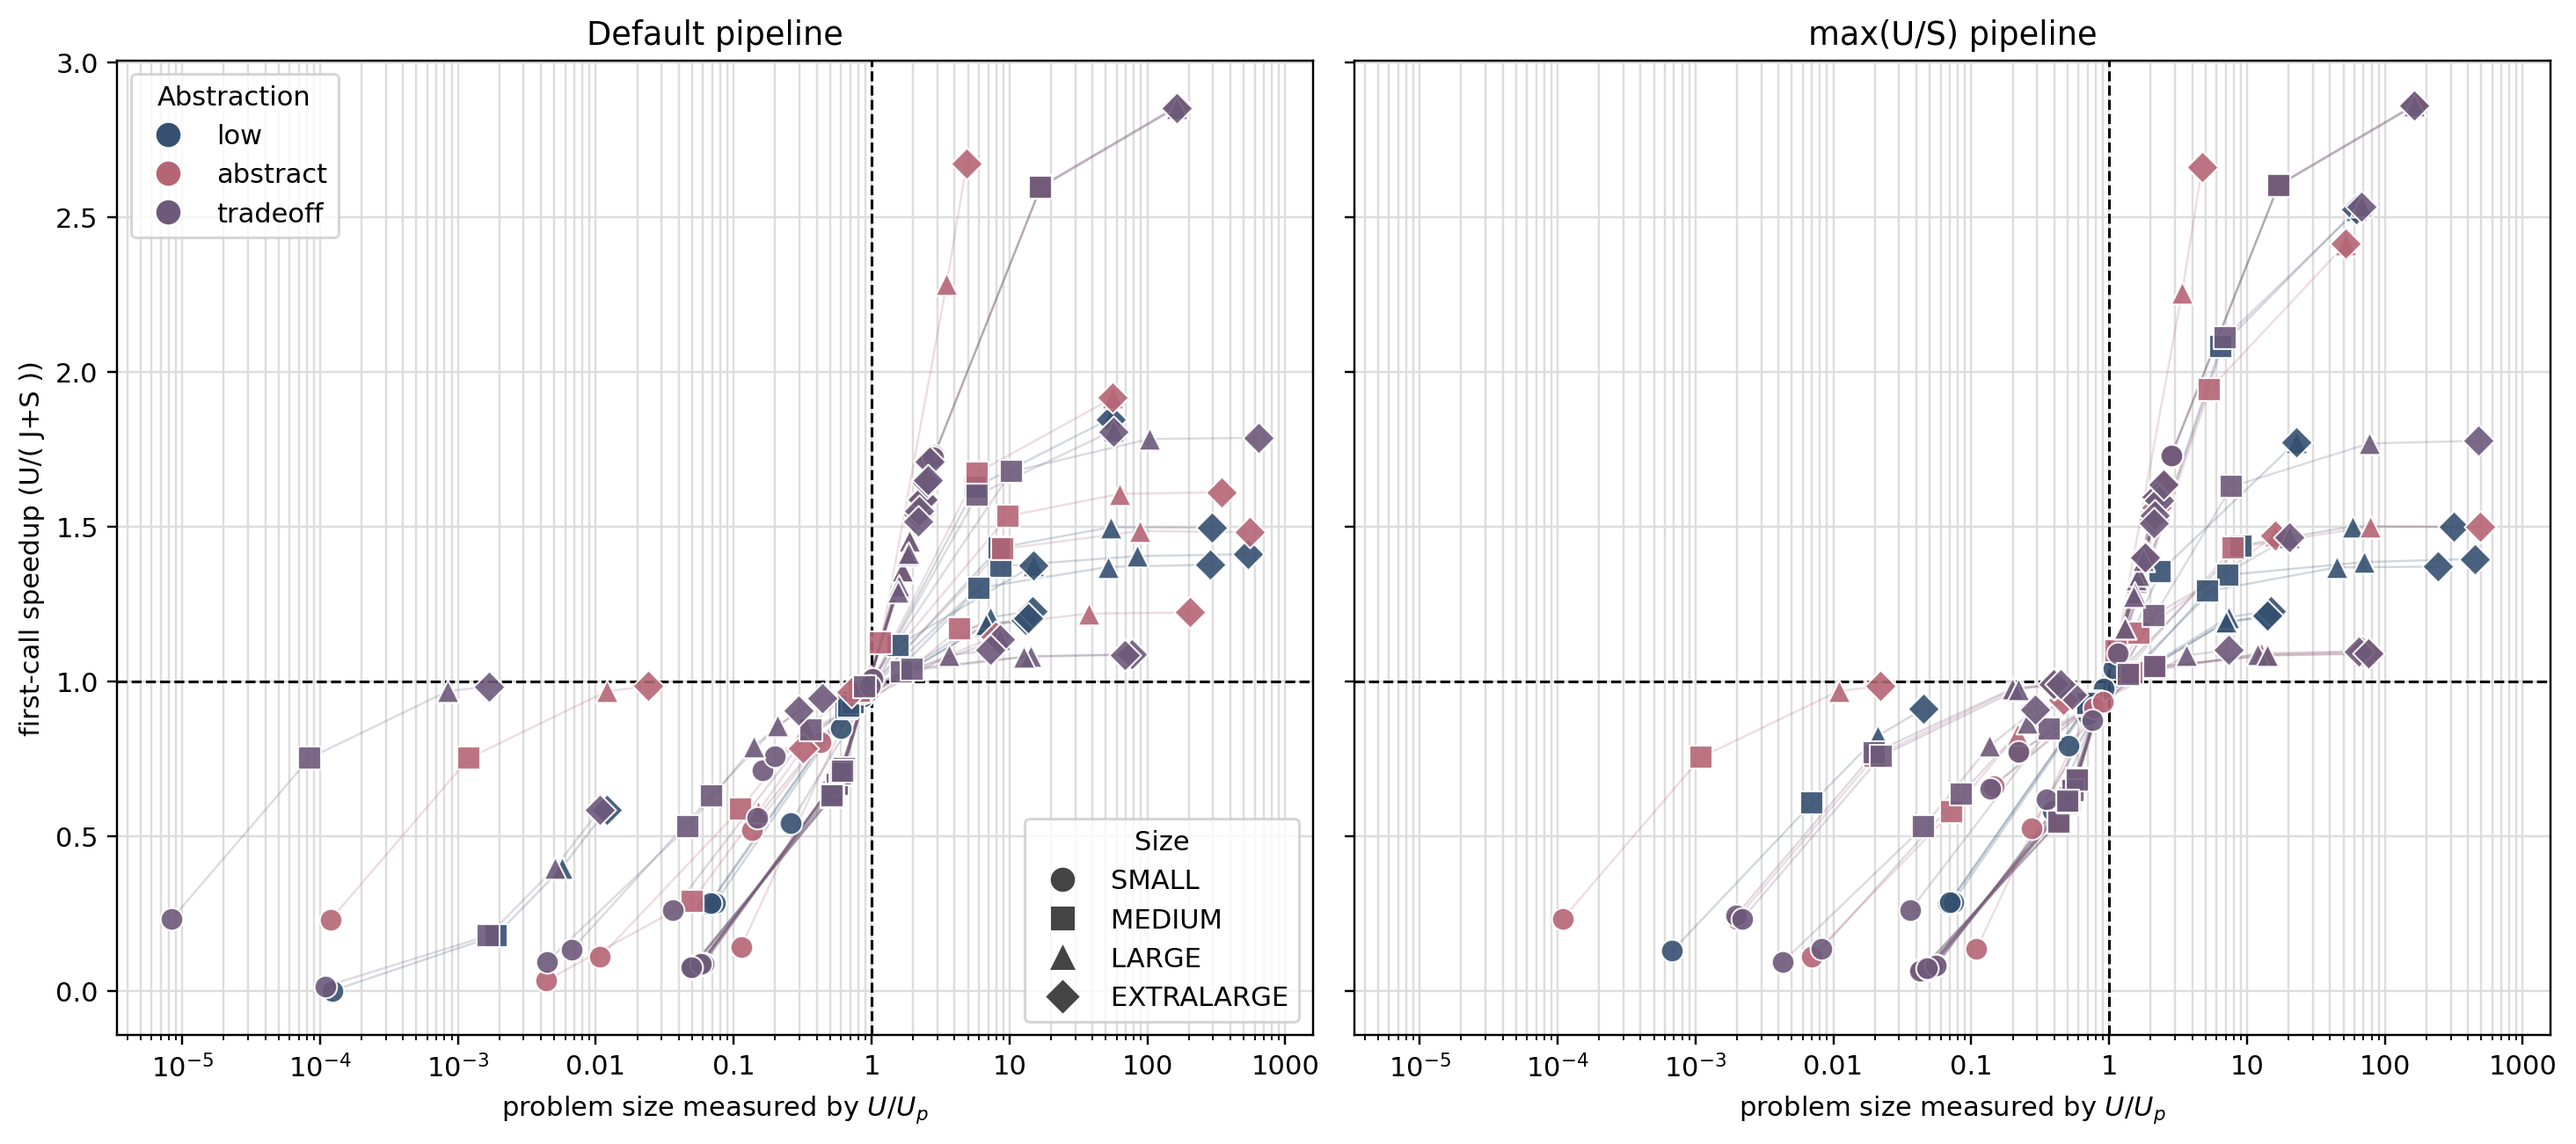
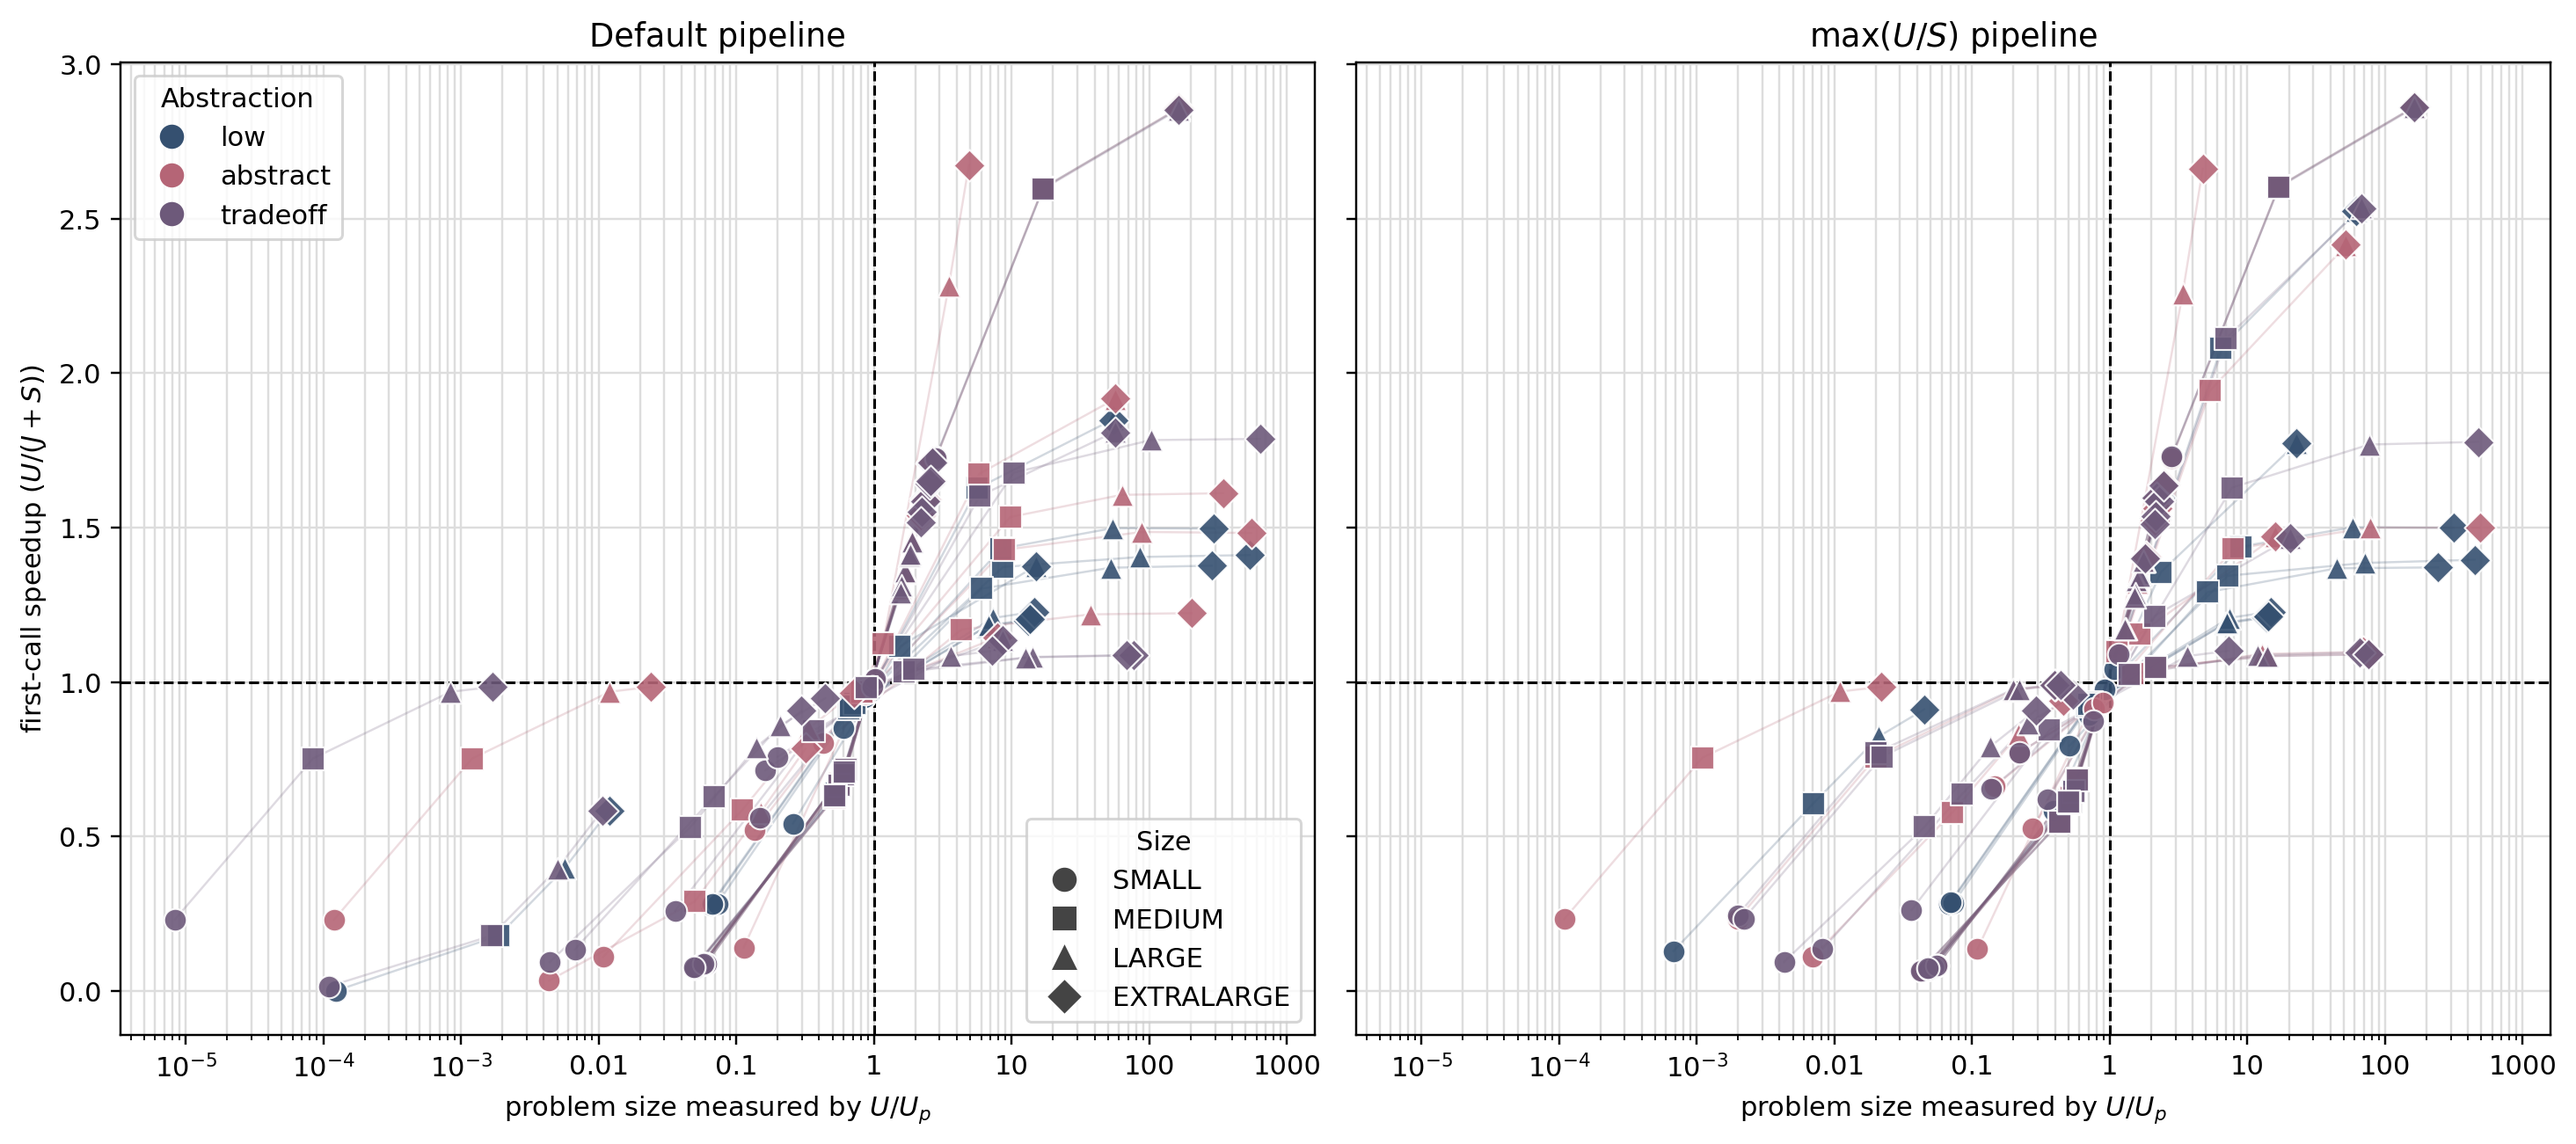
work on rq1

Changed region(s): [[0.0, 0.0, 0.9942, 0.9839], [0.901, 0.3689, 0.9321, 0.3997], [0.901, 0.0922, 0.9321, 0.123]]

diff --git a/runtime-specialization/benchmarks/reporting/plot_rq1_first_call_quadrants.py b/runtime-specialization/benchmarks/reporting/plot_rq1_first_call_quadrants.py
@@ -26,7 +26,7 @@ from report_utils import open_db, resolve_db_path, save_csv, save_plot
 CONFIGS = ("default", "per_uc_best")
 CONFIG_LABELS = {
     "default": "Default pipeline",
-    "per_uc_best": "max($U/S$) pipeline",
+    "per_uc_best": r"$\max(U/S)$ pipeline",
 }
 ABSTRACTION_ORDER = ("low", "abstract", "tradeoff")
 ABSTRACTION_COLORS = {
@@ -314,7 +314,7 @@ def _plot_combined(df: pd.DataFrame, output_path: Path) -> None:
         ax.xaxis.set_major_formatter(FuncFormatter(_format_decimal_log_tick))
         ax.set_xlabel(r"problem size measured by $U/U_p$")
 
-    axes[0].set_ylabel("first-call speedup ($U/ (J+S)$))")
+    axes[0].set_ylabel(r"first-call speedup ($U/(J+S)$)")
     _add_legends(axes[0])
     save_plot(fig, output_path, dpi=220)
     plt.close(fig)
